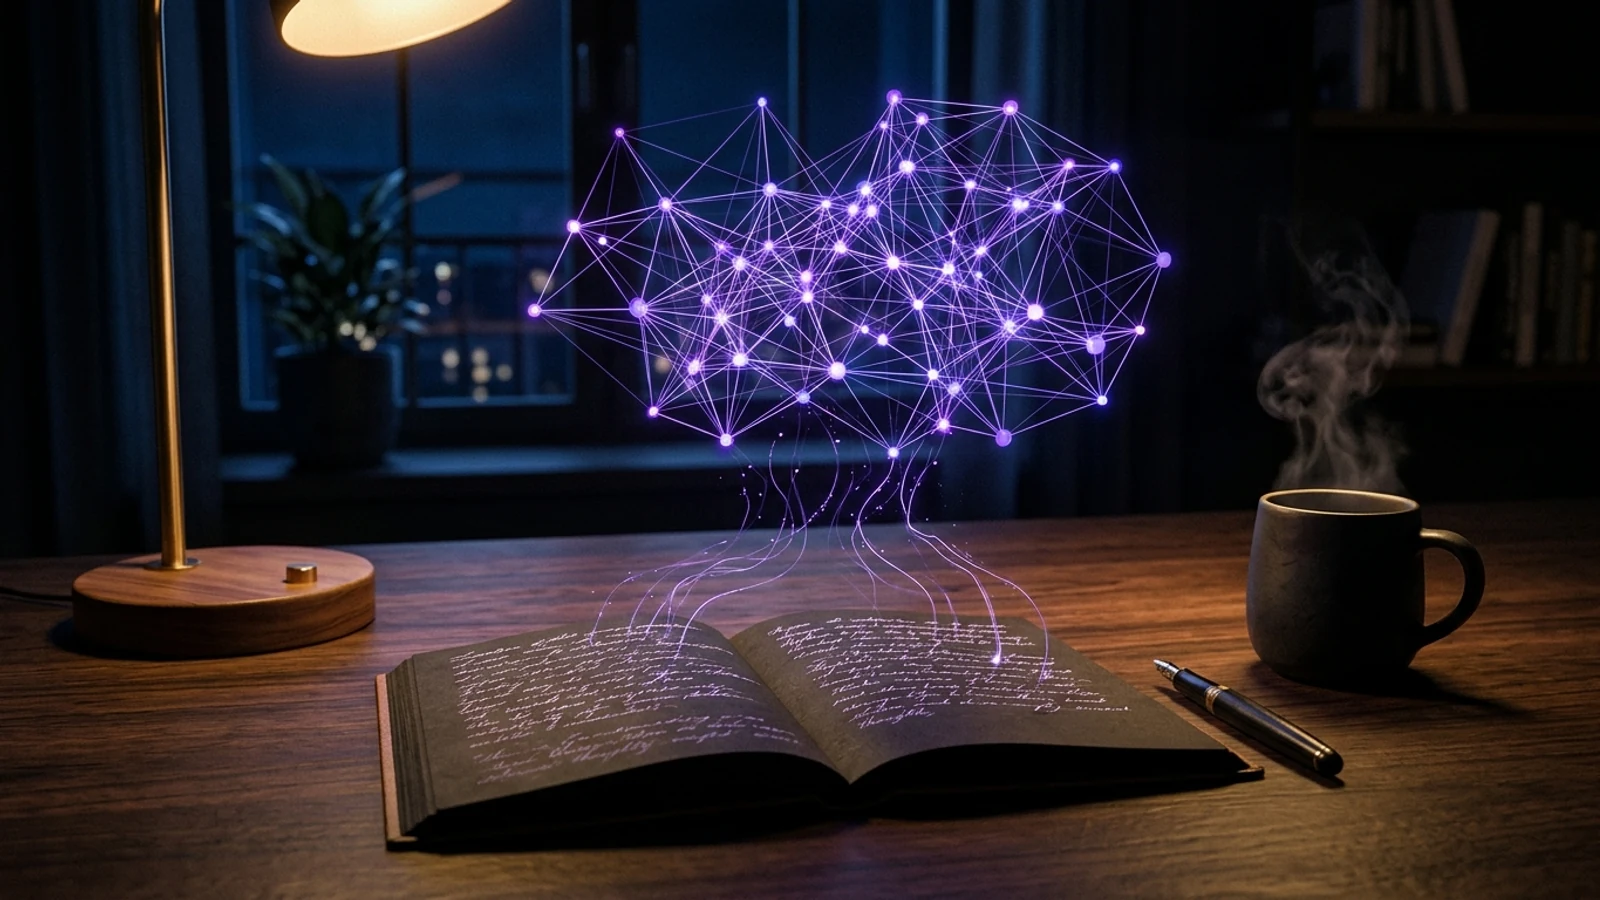
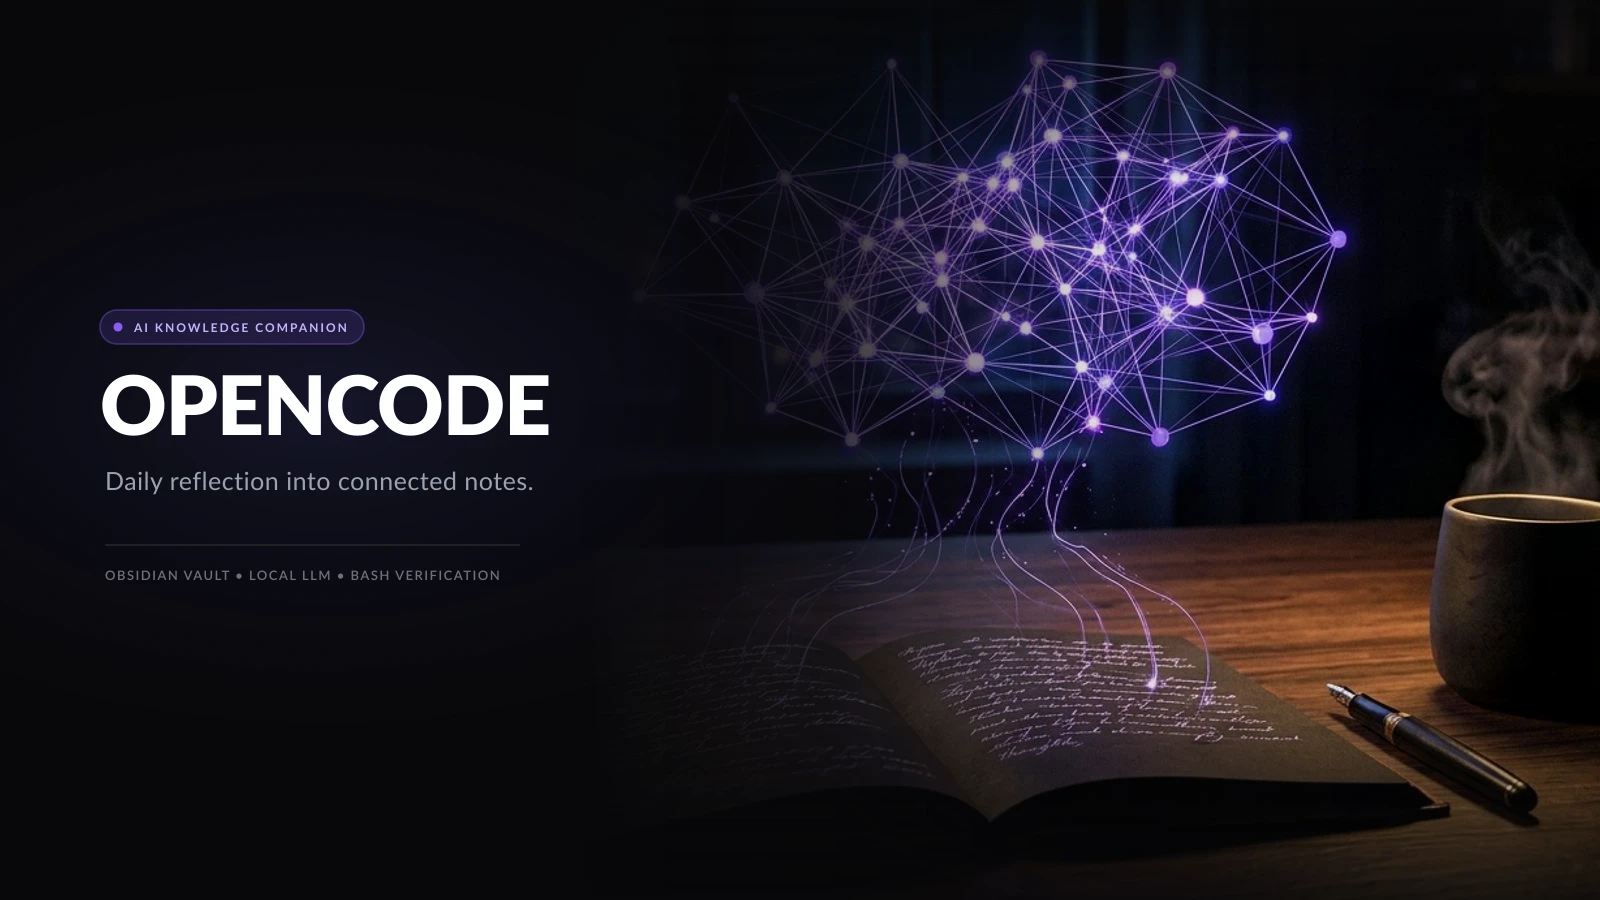
Convert project thumbnails into minimalist billboard advertisements

diff --git a/public/projects/README.md b/public/projects/README.md
@@ -3,18 +3,18 @@
 One 16:9 image per project, referenced by the `image` field in
 `app/components/projects.tsx` (e.g. `image: "/projects/zuix.webp"`).
 
-| Project                  | File                    | Concept / Visual Theme                                              |
-| ------------------------ | ----------------------- | ------------------------------------------------------------------- |
-| Clauto                   | `clauto.webp`           | Cybernetic command center with glowing 3D Kanban & git branch trees |
-| Trillium Pastry          | `trillium-pastry.webp`  | Artisanal multi-tier celebration cake with sugarcraft & warm bokeh  |
-| ZUIX INC.                | `zuix.webp`             | Luxury architectural residence with waterfall marble & blueprints   |
-| Anti-FOMO                | `anti-fomo.webp`        | Deep-space / cyberpunk opportunity scanner tracking tech signals    |
-| GradeMatrix              | `grade-matrix.webp`     | Crimson crystal matrix floating in a modern university atrium       |
-| Pico-Ducky 3.0           | `pico-ducky.webp`       | Macro cyber-hardware USB dongle with glowing circuitry & duck logo  |
-| Fretnote                 | `fretnote.webp`         | Moody guitar fretboard with glowing harmonic markers & chord charts |
-| opencode for Journalling | `opencode-journal.webp` | Nocturnal desk with journal radiating an Obsidian knowledge galaxy  |
-| Undercut                 | `undercut.webp`         | Midnight luxury sports car scanned by HUD deal-grading telemetry    |
-| FocusBox                 | `focusbox.webp`         | Precision matte black deep work lockbox with ambient timer ring     |
+| Project                  | File                    | Billboard Theme & Highlights                                       |
+| ------------------------ | ----------------------- | ------------------------------------------------------------------ |
+| Clauto                   | `clauto.webp`           | Minimalist command terminal billboard with amber git topology      |
+| Trillium Pastry          | `trillium-pastry.webp`  | Luxury artisanal cake billboard with emerald velvet & warm bokeh   |
+| ZUIX INC.                | `zuix.webp`             | Architectural design billboard with illuminated marble island      |
+| Anti-FOMO                | `anti-fomo.webp`        | Deep-sky opportunity radar billboard with cyan laser beam          |
+| GradeMatrix              | `grade-matrix.webp`     | Crimson ruby crystal matrix billboard with academic GPA telemetry  |
+| Pico-Ducky 3.0           | `pico-ducky.webp`       | Cyber-hardware security billboard with carbon-fiber & wireframe duck|
+| Fretnote                 | `fretnote.webp`         | Moody studio guitar billboard with harmonic fret illumination      |
+| opencode for Journalling | `opencode-journal.webp` | Nocturnal desk billboard with glowing purple knowledge neural net  |
+| Undercut                 | `undercut.webp`         | Midnight luxury sports coupe billboard emerging from deep shadow   |
+| FocusBox                 | `focusbox.webp`         | Matte black lockbox timer billboard with glowing warm amber ring   |
 
 To replace one, overwrite the file (or point `image` at a new one):
 
